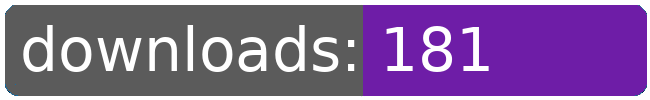
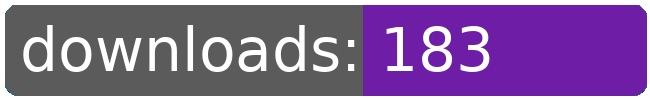
dl log written

Changed region(s): [[0.7077, 0.24, 0.7692, 0.72]]

diff --git a/README.md b/README.md
@@ -142,8 +142,8 @@
 		<td>100</td>
 		<td>134</td>
 		<td>166</td>
-		<td>181</td>
-		<td>+ 15</td>
+		<td>183</td>
+		<td>+ 17</td>
 	</tr>
 	<tr>
 		<td>tributequarg</td>
@@ -186,8 +186,8 @@
 		<td></td>
 		<td></td>
 		<td></td>
-		<td>3145</td>
-		<td>179</td>
+		<td>3147</td>
+		<td>181</td>
 	</tr>
 </table>
 </sub></sup>
@@ -322,8 +322,8 @@
 		<td>100</td>
 		<td>134</td>
 		<td>166</td>
-		<td>181</td>
-		<td>+ 15</td>
+		<td>183</td>
+		<td>+ 17</td>
 	</tr>
 	<tr>
 		<td>obtainheron</td>
@@ -377,8 +377,8 @@
 		<td></td>
 		<td></td>
 		<td></td>
-		<td>3145</td>
-		<td>179</td>
+		<td>3147</td>
+		<td>181</td>
 	</tr>
 </table>
 </sub></sup>
@@ -406,7 +406,7 @@
 		<td>87</td>
 		<td>46</td>
 		<td>26</td>
-		<td>2</td>
+		<td>4</td>
 	</tr>
 	<tr>
 		<td>unique visitors</td>
@@ -418,7 +418,7 @@
 		<td>10</td>
 		<td>11</td>
 		<td>9</td>
-		<td>2</td>
+		<td>3</td>
 	</tr>
 </table>
 <br>
@@ -432,8 +432,8 @@
 	</tr>
 	<tr>
 		<td>2025-10-15</td>
-		<td>1265</td>
-		<td>145</td>
+		<td>1267</td>
+		<td>146</td>
 		<td>192</td>
 		<td>21</td>
 	</tr>
@@ -446,8 +446,8 @@
 	</tr>
 	<tr>
 		<td>15</td>
-		<td>84.33</td>
-		<td>9.67</td>
+		<td>84.47</td>
+		<td>9.73</td>
 		<td></td>
 		<td></td>
 	</tr>
